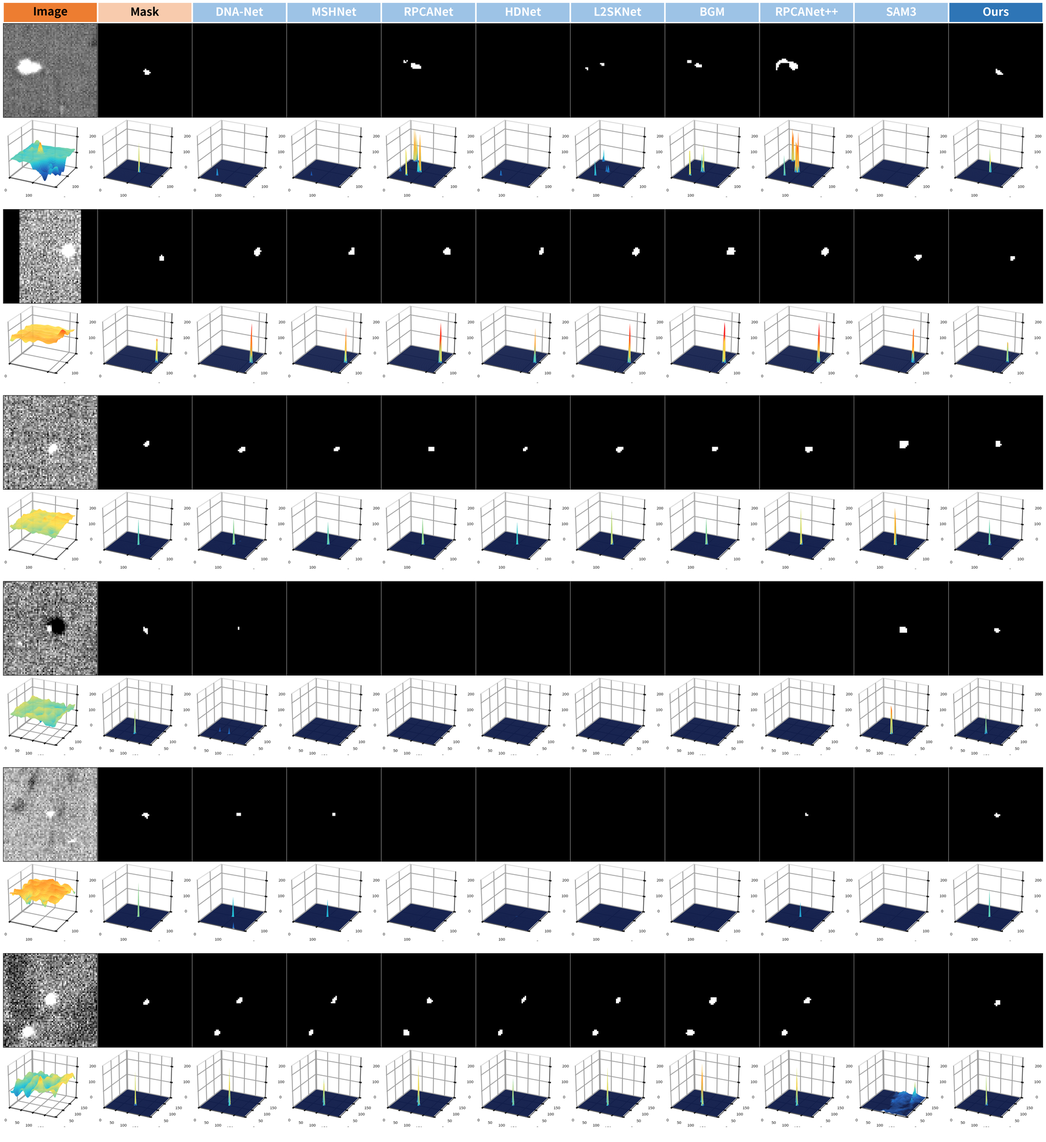
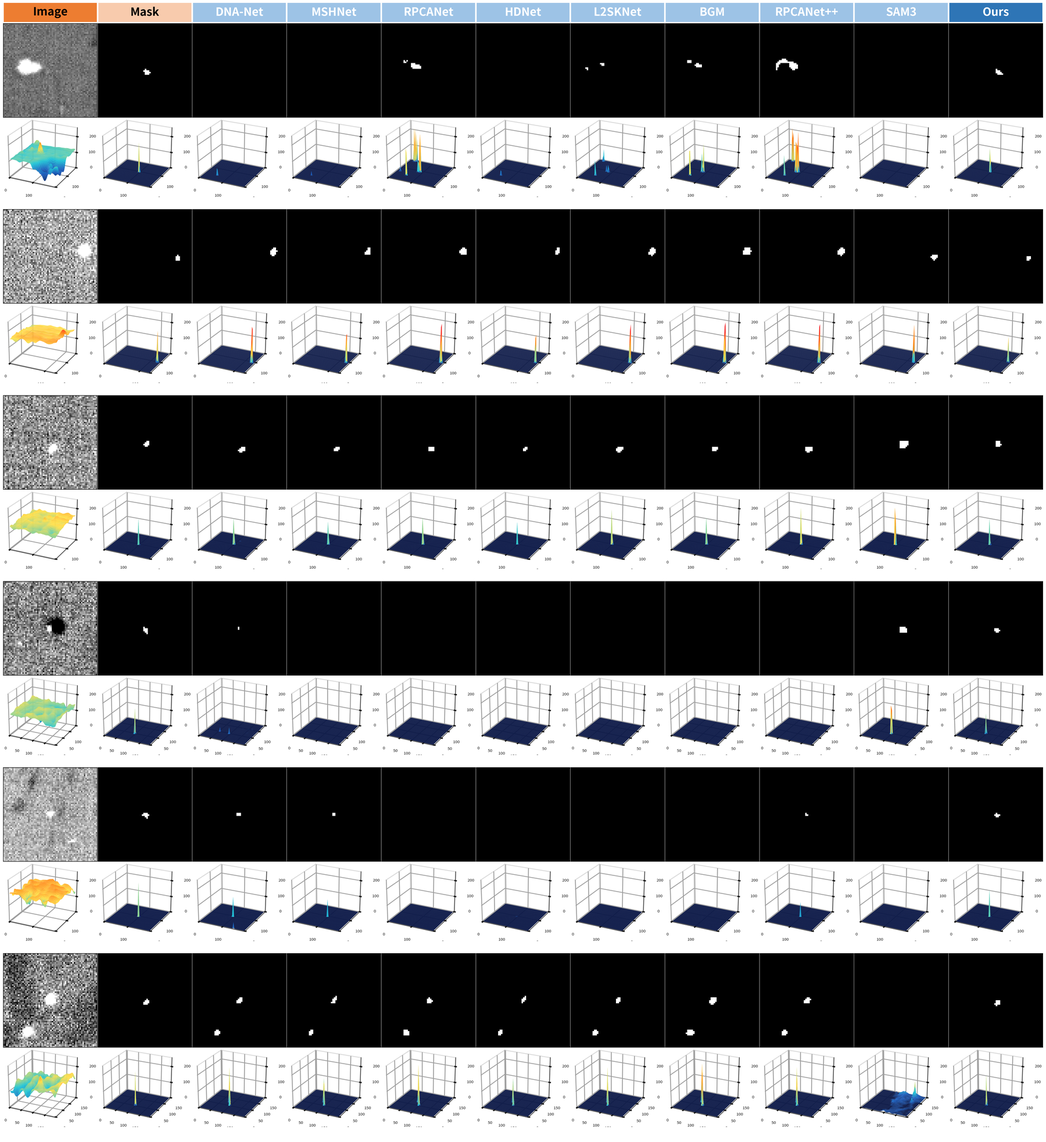
定性图 v9：ROI 改固定边长正方形并整体内移，去掉黑边
问题：原来 ROI = 目标中心 ±32 px 再按图像边界裁，贴边目标（如 2735 的 GT 在 x≈611/宽 622）
裁成 64x43 这种非方形，放大后只能用黑边补成正方形。

- roi_from_gt：side = min(max(min_box, span+2*margin), H, W)，窗口按 clamp 整体内移，
  永远完整落在图像内 -> 所有面板都是完整方形，无补黑
- 贴边目标的 GT 不再居中而靠近对应边框（红框跟 GT 走，位置正确）
- roi_crop_canvas 的补零逻辑保留为兜底

diff --git a/tools/build_paper_qualitative.py b/tools/build_paper_qualitative.py
@@ -99,16 +99,23 @@ def load_map(path):
 
 
 def roi_from_gt(gt, margin=MARGIN, min_box=MIN_BOX):
+    """Square ROI around the GT, always fully inside the image.
+
+    The window is a `side x side` square with side = max(min_box, gt_span + 2*margin);
+    when the target sits near a border the window slides inward instead of being clipped,
+    so every panel is a complete square crop (no black padding bars).
+    """
     ys, xs = np.where(gt > 127)
     h, w = gt.shape
     if len(ys) == 0:
-        return 0, min(h, min_box), 0, min(w, min_box)
+        side = int(min(min_box, h, w))
+        return 0, side, 0, side
     cy, cx = int(ys.mean()), int(xs.mean())
     span = max(int(ys.max() - ys.min()), int(xs.max() - xs.min()))
-    half = max(min_box // 2, span // 2 + margin)
-    y0, y1 = max(0, cy - half), min(h, cy + half)
-    x0, x1 = max(0, cx - half), min(w, cx + half)
-    return y0, y1, x0, x1
+    side = int(min(max(min_box, span + 2 * margin), h, w))
+    y0 = min(max(0, cy - side // 2), h - side)
+    x0 = min(max(0, cx - side // 2), w - side)
+    return y0, y0 + side, x0, x0 + side
 
 
 def compose_panel(sheet, roi, with_box=True, with_inset=True, zoom=ZOOM):

diff --git a/AGENTS.md b/AGENTS.md
@@ -62,7 +62,7 @@
 - DRPCA-Net 的 11.23 FPS 是实现开销而非测量噪声：`torch.profiler` 显示单次前向 CUDA 时间的 81.8 % 花在 `ChannelAttention` 的 `nn.AdaptiveMaxPool2d(1)`（每前向 29 次调用），且延迟对 batch 1/2/4 不敏感（85/56/65 ms）。按官方代码如实记录，不改实现。口径、对照表与差异分析见 [Seal 复杂度指标说明](docs/Seal复杂度指标_说明.md)。
 - 平凡基线（决定读表方式，不新增表行）：全背景预测（1,983 张全零）在同一 test GT 上为 S 0.49990、Fw 0、E 0.25、MAE 0.00020553，IoU/F1/Pd/Fa 均为 0。12 个基线与 Ours 的 S（0.49800–0.49915）全部低于该值，12 个基线的 MAE（0.000229–0.000375）全部高于该值，只有 Ours 的 MAE（0.00015090）低于它。因此 S/MAE 在 Seal 上不区分方法，比较以 Fw/IoU/F1/Pd/Fa 为主，S/MAE 须与平凡基线并列阅读；复算见 [汇总](docs/Seal全监督基线评估汇总.md#平凡基线全背景预测)。
 - 第三批（入表，行 29～32）：L2SKNet（TGRS25）、BGM（TGRS25）、DRPCA-Net（TGRS25）、DURD（TGRS26），均为 2025–2026 年、有官方代码的全监督单帧方法，12 个对比方法到此凑满。目录 `L2SKNet-main/`、`BGM-main/`、`DRPCA-Net-main/`、`DURD-main/`；训练设置：L2SKNet 150/Adam 5e-4、BGM 150/Adam 5e-4（两者模型输出已是概率，用概率空间 dataset 级 IoU）、DRPCA-Net 60/Adam 3e-5/dataset 级 SoftIoU + 0.01 MSE、DURD 100/Adam 1e-4/SoftIoU + 0.1 MSE。各处改动逐条写在对应实验记录与 [汇总](docs/Seal全监督基线评估汇总.md#训练不稳定与失败记录)。
-- 论文版式定性图（对齐 PDDiff Fig. 8/9）：[tools/build_paper_qualitative.py](tools/build_paper_qualitative.py)，每个样例两行（2D 二值面板 + 红框/放大插图；3D 响应面 `elev=26, azim=-64`、按面板 z 上限）。三条硬约束：① 3D 行必须喂**概率图**（`--surf-maps results/<M>/Seal/fullsup_test_maps`），二值图是 0/255 阶跃，画出来只有一根尖刺；② Seal 目标只有 3–5 px，`full` 版式（整幅 + 右下插图）在 0.87 in 列宽下几乎看不见，正式图用 `--roi-panels`（面板 = 6 倍放大 ROI，`--roi-min 64 --roi-margin 24`）；③ 11 列 × 11 样例按 9.6 in 出图，若按 7.2 in 排版表头掉到 5.6 pt，主图应拆成 `seal_pick6_roi` + `seal_pick5_roi` 两张。样例取 [docs/qualitative_rank_top200.json](docs/qualitative_rank_top200.json)（`score = F1(Ours) − mean_k F1(baseline_k)`，可用 [docs/qualitative_review_top200.html](docs/qualitative_review_top200.html) 逐图复核），当前采用排名 1,2,5,6,8,11,13,15,19,21,29 共 11 张，一键重建 [tools/make_paper_qualitative_pick.sh](tools/make_paper_qualitative_pick.sh)。Ours 预测在 `Ours/test_maps`（1,983 张概率图）、SAM3 在 `Ours/SAM3-test_maps`（同阈值 `>=128`）。版式规格、样例清单与读数见 [docs/Seal定性图_论文版式.md](docs/Seal定性图_论文版式.md)，预览 `docs/assets/seal_qualitative_pick6_roi.png`、`docs/assets/seal_qualitative_pick11_full.png`。全分辨率成品（600 dpi PNG + 矢量 PDF + meta，约 110 MB/版）按版本归档：服务器保留全部历史（v1 `Ours/qualitative/v1_20261104_11col/`、v2 `v2_20261105/`、v3 `v3_20261105/`、v4 `v4_20261105/`、v5 `v5_20261105/`、v6 `v6_20261105/`、v7 `v7_20261105/`、v8 `v8_20261105/`），本地只留最新一版在 `Ours/qualitative/v8_20261105/`；**整个 `Ours/qualitative/` 不进 git**（`.gitignore` 整目录排除，只有 `docs/assets/` 里的 1800 px 预览入库）。版式演进：v2 压紧列间距、3D 加网格 + 整数刻度 + 轴名、去掉黑色粗轴线；v3 加单图拆分与 Visio；v4 让 3D 盒子铺满格子（按格子尺寸渲染 PNG → 裁白边 → `aspect='auto'` 贴回）；**v5 解决「3D 白边仍偏大、峰不够高不够显眼」：裁边 26→6 px、平滑 σ 2.0→0.9、`vmax` 取平滑后峰值（峰顶到天花板）、Z 轴统一 0–255 保证跨列可比、盒子 z 比例 0.55→1.00、自定义 `seal3d` 色带（深蓝底→青→黄→亮红）+ `PowerNorm(0.45)`**；并新增 `--diag` 诊断面板（TP 白 / FP 红 / FN 绿 + 红框标 GT），Visio 改用诊断面板；**v6 把诊断面板的红框放大到至少占面板 36%（约 138 px、3 px 线）**；**v8 修正 Image 列**：原来它是整幅 622×417（红框=ROI 窗口），而 Mask/方法列是已经放大 6 倍的 ROI 块（红框=GT 定位框），两者天然不对应——现在 Image 列也取同一块 ROI 的 6 倍放大并套同一个定位框，11 列视野与框位置完全一致——红框是给人定位用的，v5 那版只比 GT 外扩 8 px，印刷尺寸下等于没有。**v7 再优化三点：① 3D 网格线 0.62 灰 / 0.45 pt、刻度数字 2.2 pt 近黑、每轴 3 个好刻度、去掉会撞车的 X/Y/Z 轴名；② Image 列 3D 改彩色（`seal3d` 色带 + 线性映射，与 PDDiff 一致）；③ 诊断面板遇到多目标时每个连通域各画一个红框（单目标 36% 面板、多目标 0.45/n）**。Visio 版由 [tools/make_visio_qualitative.ps1](tools/make_visio_qualitative.ps1) 用 Visio COM 生成（仅 Windows + 已装 Visio）：**第 1 页 `ALL` 把 11 个样例纵向摞成一页**（表头只出现一次，253 个形状，15×31.3 in），之后每样例一页（每页 34 个独立形状：表头矩形 + 22 张图片 + 页脚说明），全部可手动调整格式。
+- 论文版式定性图（对齐 PDDiff Fig. 8/9）：[tools/build_paper_qualitative.py](tools/build_paper_qualitative.py)，每个样例两行（2D 二值面板 + 红框/放大插图；3D 响应面 `elev=26, azim=-64`、按面板 z 上限）。三条硬约束：① 3D 行必须喂**概率图**（`--surf-maps results/<M>/Seal/fullsup_test_maps`），二值图是 0/255 阶跃，画出来只有一根尖刺；② Seal 目标只有 3–5 px，`full` 版式（整幅 + 右下插图）在 0.87 in 列宽下几乎看不见，正式图用 `--roi-panels`（面板 = 6 倍放大 ROI，`--roi-min 64 --roi-margin 24`）；③ 11 列 × 11 样例按 9.6 in 出图，若按 7.2 in 排版表头掉到 5.6 pt，主图应拆成 `seal_pick6_roi` + `seal_pick5_roi` 两张。样例取 [docs/qualitative_rank_top200.json](docs/qualitative_rank_top200.json)（`score = F1(Ours) − mean_k F1(baseline_k)`，可用 [docs/qualitative_review_top200.html](docs/qualitative_review_top200.html) 逐图复核），当前采用排名 1,2,5,6,8,11,13,15,19,21,29 共 11 张，一键重建 [tools/make_paper_qualitative_pick.sh](tools/make_paper_qualitative_pick.sh)。Ours 预测在 `Ours/test_maps`（1,983 张概率图）、SAM3 在 `Ours/SAM3-test_maps`（同阈值 `>=128`）。版式规格、样例清单与读数见 [docs/Seal定性图_论文版式.md](docs/Seal定性图_论文版式.md)，预览 `docs/assets/seal_qualitative_pick6_roi.png`、`docs/assets/seal_qualitative_pick11_full.png`。全分辨率成品（600 dpi PNG + 矢量 PDF + meta，约 110 MB/版）按版本归档：服务器保留全部历史（v1 `Ours/qualitative/v1_20261104_11col/`、v2 `v2_20261105/`、v3 `v3_20261105/`、v4 `v4_20261105/`、v5 `v5_20261105/`、v6 `v6_20261105/`、v7 `v7_20261105/`、v8 `v8_20261105/`、v9 `v9_20261105/`），本地只留最新一版在 `Ours/qualitative/v9_20261105/`；**整个 `Ours/qualitative/` 不进 git**（`.gitignore` 整目录排除，只有 `docs/assets/` 里的 1800 px 预览入库）。版式演进：v2 压紧列间距、3D 加网格 + 整数刻度 + 轴名、去掉黑色粗轴线；v3 加单图拆分与 Visio；v4 让 3D 盒子铺满格子（按格子尺寸渲染 PNG → 裁白边 → `aspect='auto'` 贴回）；**v5 解决「3D 白边仍偏大、峰不够高不够显眼」：裁边 26→6 px、平滑 σ 2.0→0.9、`vmax` 取平滑后峰值（峰顶到天花板）、Z 轴统一 0–255 保证跨列可比、盒子 z 比例 0.55→1.00、自定义 `seal3d` 色带（深蓝底→青→黄→亮红）+ `PowerNorm(0.45)`**；并新增 `--diag` 诊断面板（TP 白 / FP 红 / FN 绿 + 红框标 GT），Visio 改用诊断面板；**v6 把诊断面板的红框放大到至少占面板 36%（约 138 px、3 px 线）**；**v9 去掉黑边**：ROI 从「以目标为中心后按边界裁」改成「固定边长正方形、贴边整体内移」，窗口永远完整落在图像内（此前 2735 这类贴右边界的样例裁成 64×43 后被补黑）；**v8 修正 Image 列**：原来它是整幅 622×417（红框=ROI 窗口），而 Mask/方法列是已经放大 6 倍的 ROI 块（红框=GT 定位框），两者天然不对应——现在 Image 列也取同一块 ROI 的 6 倍放大并套同一个定位框，11 列视野与框位置完全一致——红框是给人定位用的，v5 那版只比 GT 外扩 8 px，印刷尺寸下等于没有。**v7 再优化三点：① 3D 网格线 0.62 灰 / 0.45 pt、刻度数字 2.2 pt 近黑、每轴 3 个好刻度、去掉会撞车的 X/Y/Z 轴名；② Image 列 3D 改彩色（`seal3d` 色带 + 线性映射，与 PDDiff 一致）；③ 诊断面板遇到多目标时每个连通域各画一个红框（单目标 36% 面板、多目标 0.45/n）**。Visio 版由 [tools/make_visio_qualitative.ps1](tools/make_visio_qualitative.ps1) 用 Visio COM 生成（仅 Windows + 已装 Visio）：**第 1 页 `ALL` 把 11 个样例纵向摞成一页**（表头只出现一次，253 个形状，15×31.3 in），之后每样例一页（每页 34 个独立形状：表头矩形 + 22 张图片 + 页脚说明），全部可手动调整格式。
 - 定性图（论文拼图用）：12 个方法与 Ours 的二值预测图在 `results/<Method>/Seal/test_binary/`（1,983 张，`pixel >= 128` → 255），由 [tools/make_binary_maps.py](tools/make_binary_maps.py) 与 [tools/make_qualitative.sh](tools/make_qualitative.sh) 生成；样例拼图在服务器 `qualitative/<stem>/panel.png`（RGB/热红外/GT/预测叠加，13 行），样例清单 `docs/Seal定性对比样例.json`，说明见 [docs/Seal定性对比图.md](docs/Seal定性对比图.md)。
 - ROC / P-R / Pd–Fa 曲线：像素级曲线用 [tools/roc_hist.py](tools/roc_hist.py) 把预测值按 GT 前景（`gt > 127`）/背景分箱成 256 桶直方图（[tools/roc_hist_all.sh](tools/roc_hist_all.sh) → `results/roc_hist/<Method>.json`），目标级曲线用 [tools/target_curves.py](tools/target_curves.py) 在 63 个阈值上做 8 连通 + 质心 <3 px 一对一匹配（[tools/target_curves_all.sh](tools/target_curves_all.sh) 13 进程并行约 1.5 h → `results/target_curves/<Method>.json`）；出图分别是 [tools/plot_roc_pr.py](tools/plot_roc_pr.py) 与 [tools/plot_target_curves.py](tools/plot_target_curves.py)。产物按版本存 `Ours/roc_pr/<version>/`，**当前推荐 `v5_20261105/`**（像素级 ROC：两段直线 + 横轴 8×10⁻⁴ + 图宽 6.8 in，P-R 用 v1 版式）；`v3_20261105/` 为目标级 Pd–Fa（线性 + log），`v4/v2/v1` 留档；每次同时存 PNG（600 dpi）与 PDF + `curves.json` + `summary.md`。**画法（用户明确要求）**：每个方法一条折线且只有两段直线——`(0,0) → 拐点 → (右边框, 平台)`；平台取右边框处的值（像素级 = TPR@FPR=窗口右端，目标级 = max Pd），拐点 = 沿横轴升序第一个 ≥0.98×平台 的点（`--two-segment`、`--knee-frac`）。横轴要够长（`--xmax 8e-4 --fig-width 6.8`），否则平台贴右边框、看起来"戛然而止"；P-R 保留 (0,1) 起点与 recall→1 的尾巴（`--pr-style v1`，用户选定的版式）。**一致性**：像素级 `t=128` 的 precision/recall 可复原表中 F1/IoU（Ours 0.61905/0.44831 vs 0.61912/0.44835）；目标级 `t=128` 的 Pd/Fa 与表中 13 行全部逐位吻合（Ours 0.82731 / 2.100e-06）。**读图**：① 面积指标报 **pAUC@5×10⁻⁴**（12 个基线操作点 Fa@t=128 ≤ 2.4×10⁻⁴，Ours 0.64391 第一）；v5 画到 8×10⁻⁴ 后按窗口积的 `pAUC@8×10⁻⁴` 会被 SCTransNet/ILNet/UIU-Net 反超（它们弥散输出，5→8×10⁻⁴ 的 TPR 从 0.80 爬到 0.88），summary 两个窗口都列，论文别报后者；② 全范围 AUC 不能用来排名（几乎不预测前景的方法 0.977–0.981），与 S/MAE 被背景主导同类；③ 目标级图 Ours 平台 Pd 0.834 最高、拐点 Fa 1.2×10⁻⁶ 比次优 HDNet 低 40 倍，但 Fa 跨 70 倍，**目标级主推 log 轴**；④ 像素级 `Pd@t=128`（0.594）是前景像素召回率，与表中目标级 Pd（0.827）不同口径不能互引。曲线成品按同样目录结构同步到服务器 `Ours/roc_pr/`（当前 39 个文件 / 约 7.6 MB，含 v1–v5 全部 PNG+PDF+json+md，`sha256sum` 与本地一致）；重画用的 `tools/roc_hist.py`、`tools/roc_hist_all.sh`、`tools/target_curves.py`、`tools/target_curves_all.sh`、`tools/plot_roc_pr.py`、`tools/plot_target_curves.py` 也在服务器 `tools/` 下保持同步。口径、版本对照与复现命令见 [docs/Seal_ROC_PR曲线.md](docs/Seal_ROC_PR曲线.md)，预览 `docs/assets/seal_roc_pr_v5.png`、`docs/assets/seal_pd_fa_v3.png`。
 - IoU 的边界敏感性：Seal 目标平均 14.3 像素，把 GT 膨胀/腐蚀 1 像素当预测只能得到 IoU 0.3910 / 0.0826；表中 IoU 0.19–0.31 对应约 1–2 像素边界误差，不能读作分割质量百分比，须与 Fw/F1/Pd/Fa 合看，详见 [定义对照](docs/小目标评价指标_定义与代码对照.md#iou-的边界敏感性seal-gt-实测)。

diff --git a/README.md b/README.md
@@ -65,7 +65,7 @@
 - DRPCA-Net 的 11.23 FPS 是实现开销而非测量噪声：`torch.profiler` 显示单次前向 CUDA 时间的 81.8 % 花在 `ChannelAttention` 的 `nn.AdaptiveMaxPool2d(1)`（每前向 29 次调用），且延迟对 batch 1/2/4 不敏感（85/56/65 ms）。按官方代码如实记录，不改实现。口径、对照表与差异分析见 [Seal 复杂度指标说明](docs/Seal复杂度指标_说明.md)。
 - 平凡基线（决定读表方式，不新增表行）：全背景预测（1,983 张全零）在同一 test GT 上为 S 0.49990、Fw 0、E 0.25、MAE 0.00020553，IoU/F1/Pd/Fa 均为 0。12 个基线与 Ours 的 S（0.49800–0.49915）全部低于该值，12 个基线的 MAE（0.000229–0.000375）全部高于该值，只有 Ours 的 MAE（0.00015090）低于它。因此 S/MAE 在 Seal 上不区分方法，比较以 Fw/IoU/F1/Pd/Fa 为主，S/MAE 须与平凡基线并列阅读；复算见 [汇总](docs/Seal全监督基线评估汇总.md#平凡基线全背景预测)。
 - 第三批（入表，行 29～32）：L2SKNet（TGRS25）、BGM（TGRS25）、DRPCA-Net（TGRS25）、DURD（TGRS26），均为 2025–2026 年、有官方代码的全监督单帧方法，12 个对比方法到此凑满。目录 `L2SKNet-main/`、`BGM-main/`、`DRPCA-Net-main/`、`DURD-main/`；训练设置：L2SKNet 150/Adam 5e-4、BGM 150/Adam 5e-4（两者模型输出已是概率，用概率空间 dataset 级 IoU）、DRPCA-Net 60/Adam 3e-5/dataset 级 SoftIoU + 0.01 MSE、DURD 100/Adam 1e-4/SoftIoU + 0.1 MSE。各处改动逐条写在对应实验记录与 [汇总](docs/Seal全监督基线评估汇总.md#训练不稳定与失败记录)。
-- 论文版式定性图（对齐 PDDiff Fig. 8/9）：[tools/build_paper_qualitative.py](tools/build_paper_qualitative.py)，每个样例两行（2D 二值面板 + 红框/放大插图；3D 响应面 `elev=26, azim=-64`、按面板 z 上限）。三条硬约束：① 3D 行必须喂**概率图**（`--surf-maps results/<M>/Seal/fullsup_test_maps`），二值图是 0/255 阶跃，画出来只有一根尖刺；② Seal 目标只有 3–5 px，`full` 版式（整幅 + 右下插图）在 0.87 in 列宽下几乎看不见，正式图用 `--roi-panels`（面板 = 6 倍放大 ROI，`--roi-min 64 --roi-margin 24`）；③ 11 列 × 11 样例按 9.6 in 出图，若按 7.2 in 排版表头掉到 5.6 pt，主图应拆成 `seal_pick6_roi` + `seal_pick5_roi` 两张。样例取 [docs/qualitative_rank_top200.json](docs/qualitative_rank_top200.json)（`score = F1(Ours) − mean_k F1(baseline_k)`，可用 [docs/qualitative_review_top200.html](docs/qualitative_review_top200.html) 逐图复核），当前采用排名 1,2,5,6,8,11,13,15,19,21,29 共 11 张，一键重建 [tools/make_paper_qualitative_pick.sh](tools/make_paper_qualitative_pick.sh)。Ours 预测在 `Ours/test_maps`（1,983 张概率图）、SAM3 在 `Ours/SAM3-test_maps`（同阈值 `>=128`）。版式规格、样例清单与读数见 [docs/Seal定性图_论文版式.md](docs/Seal定性图_论文版式.md)，预览 `docs/assets/seal_qualitative_pick6_roi.png`、`docs/assets/seal_qualitative_pick11_full.png`。全分辨率成品（600 dpi PNG + 矢量 PDF + meta，约 110 MB/版）按版本归档：服务器保留全部历史（v1 `Ours/qualitative/v1_20261104_11col/`、v2 `v2_20261105/`、v3 `v3_20261105/`、v4 `v4_20261105/`、v5 `v5_20261105/`、v6 `v6_20261105/`、v7 `v7_20261105/`、v8 `v8_20261105/`），本地只留最新一版在 `Ours/qualitative/v8_20261105/`；**整个 `Ours/qualitative/` 不进 git**（`.gitignore` 整目录排除，只有 `docs/assets/` 里的 1800 px 预览入库）。版式演进：v2 压紧列间距、3D 加网格 + 整数刻度 + 轴名、去掉黑色粗轴线；v3 加单图拆分与 Visio；v4 让 3D 盒子铺满格子（按格子尺寸渲染 PNG → 裁白边 → `aspect='auto'` 贴回）；**v5 解决「3D 白边仍偏大、峰不够高不够显眼」：裁边 26→6 px、平滑 σ 2.0→0.9、`vmax` 取平滑后峰值（峰顶到天花板）、Z 轴统一 0–255 保证跨列可比、盒子 z 比例 0.55→1.00、自定义 `seal3d` 色带（深蓝底→青→黄→亮红）+ `PowerNorm(0.45)`**；并新增 `--diag` 诊断面板（TP 白 / FP 红 / FN 绿 + 红框标 GT），Visio 改用诊断面板；**v6 把诊断面板的红框放大到至少占面板 36%（约 138 px、3 px 线）**；**v8 修正 Image 列**：原来它是整幅 622×417（红框=ROI 窗口），而 Mask/方法列是已经放大 6 倍的 ROI 块（红框=GT 定位框），两者天然不对应——现在 Image 列也取同一块 ROI 的 6 倍放大并套同一个定位框，11 列视野与框位置完全一致——红框是给人定位用的，v5 那版只比 GT 外扩 8 px，印刷尺寸下等于没有。**v7 再优化三点：① 3D 网格线 0.62 灰 / 0.45 pt、刻度数字 2.2 pt 近黑、每轴 3 个好刻度、去掉会撞车的 X/Y/Z 轴名；② Image 列 3D 改彩色（`seal3d` 色带 + 线性映射，与 PDDiff 一致）；③ 诊断面板遇到多目标时每个连通域各画一个红框（单目标 36% 面板、多目标 0.45/n）**。Visio 版由 [tools/make_visio_qualitative.ps1](tools/make_visio_qualitative.ps1) 用 Visio COM 生成（仅 Windows + 已装 Visio）：**第 1 页 `ALL` 把 11 个样例纵向摞成一页**（表头只出现一次，253 个形状，15×31.3 in），之后每样例一页（每页 34 个独立形状：表头矩形 + 22 张图片 + 页脚说明），全部可手动调整格式。
+- 论文版式定性图（对齐 PDDiff Fig. 8/9）：[tools/build_paper_qualitative.py](tools/build_paper_qualitative.py)，每个样例两行（2D 二值面板 + 红框/放大插图；3D 响应面 `elev=26, azim=-64`、按面板 z 上限）。三条硬约束：① 3D 行必须喂**概率图**（`--surf-maps results/<M>/Seal/fullsup_test_maps`），二值图是 0/255 阶跃，画出来只有一根尖刺；② Seal 目标只有 3–5 px，`full` 版式（整幅 + 右下插图）在 0.87 in 列宽下几乎看不见，正式图用 `--roi-panels`（面板 = 6 倍放大 ROI，`--roi-min 64 --roi-margin 24`）；③ 11 列 × 11 样例按 9.6 in 出图，若按 7.2 in 排版表头掉到 5.6 pt，主图应拆成 `seal_pick6_roi` + `seal_pick5_roi` 两张。样例取 [docs/qualitative_rank_top200.json](docs/qualitative_rank_top200.json)（`score = F1(Ours) − mean_k F1(baseline_k)`，可用 [docs/qualitative_review_top200.html](docs/qualitative_review_top200.html) 逐图复核），当前采用排名 1,2,5,6,8,11,13,15,19,21,29 共 11 张，一键重建 [tools/make_paper_qualitative_pick.sh](tools/make_paper_qualitative_pick.sh)。Ours 预测在 `Ours/test_maps`（1,983 张概率图）、SAM3 在 `Ours/SAM3-test_maps`（同阈值 `>=128`）。版式规格、样例清单与读数见 [docs/Seal定性图_论文版式.md](docs/Seal定性图_论文版式.md)，预览 `docs/assets/seal_qualitative_pick6_roi.png`、`docs/assets/seal_qualitative_pick11_full.png`。全分辨率成品（600 dpi PNG + 矢量 PDF + meta，约 110 MB/版）按版本归档：服务器保留全部历史（v1 `Ours/qualitative/v1_20261104_11col/`、v2 `v2_20261105/`、v3 `v3_20261105/`、v4 `v4_20261105/`、v5 `v5_20261105/`、v6 `v6_20261105/`、v7 `v7_20261105/`、v8 `v8_20261105/`、v9 `v9_20261105/`），本地只留最新一版在 `Ours/qualitative/v9_20261105/`；**整个 `Ours/qualitative/` 不进 git**（`.gitignore` 整目录排除，只有 `docs/assets/` 里的 1800 px 预览入库）。版式演进：v2 压紧列间距、3D 加网格 + 整数刻度 + 轴名、去掉黑色粗轴线；v3 加单图拆分与 Visio；v4 让 3D 盒子铺满格子（按格子尺寸渲染 PNG → 裁白边 → `aspect='auto'` 贴回）；**v5 解决「3D 白边仍偏大、峰不够高不够显眼」：裁边 26→6 px、平滑 σ 2.0→0.9、`vmax` 取平滑后峰值（峰顶到天花板）、Z 轴统一 0–255 保证跨列可比、盒子 z 比例 0.55→1.00、自定义 `seal3d` 色带（深蓝底→青→黄→亮红）+ `PowerNorm(0.45)`**；并新增 `--diag` 诊断面板（TP 白 / FP 红 / FN 绿 + 红框标 GT），Visio 改用诊断面板；**v6 把诊断面板的红框放大到至少占面板 36%（约 138 px、3 px 线）**；**v9 去掉黑边**：ROI 从「以目标为中心后按边界裁」改成「固定边长正方形、贴边整体内移」，窗口永远完整落在图像内（此前 2735 这类贴右边界的样例裁成 64×43 后被补黑）；**v8 修正 Image 列**：原来它是整幅 622×417（红框=ROI 窗口），而 Mask/方法列是已经放大 6 倍的 ROI 块（红框=GT 定位框），两者天然不对应——现在 Image 列也取同一块 ROI 的 6 倍放大并套同一个定位框，11 列视野与框位置完全一致——红框是给人定位用的，v5 那版只比 GT 外扩 8 px，印刷尺寸下等于没有。**v7 再优化三点：① 3D 网格线 0.62 灰 / 0.45 pt、刻度数字 2.2 pt 近黑、每轴 3 个好刻度、去掉会撞车的 X/Y/Z 轴名；② Image 列 3D 改彩色（`seal3d` 色带 + 线性映射，与 PDDiff 一致）；③ 诊断面板遇到多目标时每个连通域各画一个红框（单目标 36% 面板、多目标 0.45/n）**。Visio 版由 [tools/make_visio_qualitative.ps1](tools/make_visio_qualitative.ps1) 用 Visio COM 生成（仅 Windows + 已装 Visio）：**第 1 页 `ALL` 把 11 个样例纵向摞成一页**（表头只出现一次，253 个形状，15×31.3 in），之后每样例一页（每页 34 个独立形状：表头矩形 + 22 张图片 + 页脚说明），全部可手动调整格式。
 - 定性图（论文拼图用）：12 个方法与 Ours 的二值预测图在 `results/<Method>/Seal/test_binary/`（1,983 张，`pixel >= 128` → 255），由 [tools/make_binary_maps.py](tools/make_binary_maps.py) 与 [tools/make_qualitative.sh](tools/make_qualitative.sh) 生成；样例拼图在服务器 `qualitative/<stem>/panel.png`（RGB/热红外/GT/预测叠加，13 行），样例清单 `docs/Seal定性对比样例.json`，说明见 [docs/Seal定性对比图.md](docs/Seal定性对比图.md)。
 - ROC / P-R / Pd–Fa 曲线：像素级曲线用 [tools/roc_hist.py](tools/roc_hist.py) 把预测值按 GT 前景（`gt > 127`）/背景分箱成 256 桶直方图（[tools/roc_hist_all.sh](tools/roc_hist_all.sh) → `results/roc_hist/<Method>.json`），目标级曲线用 [tools/target_curves.py](tools/target_curves.py) 在 63 个阈值上做 8 连通 + 质心 <3 px 一对一匹配（[tools/target_curves_all.sh](tools/target_curves_all.sh) 13 进程并行约 1.5 h → `results/target_curves/<Method>.json`）；出图分别是 [tools/plot_roc_pr.py](tools/plot_roc_pr.py) 与 [tools/plot_target_curves.py](tools/plot_target_curves.py)。产物按版本存 `Ours/roc_pr/<version>/`，**当前推荐 `v5_20261105/`**（像素级 ROC：两段直线 + 横轴 8×10⁻⁴ + 图宽 6.8 in，P-R 用 v1 版式）；`v3_20261105/` 为目标级 Pd–Fa（线性 + log），`v4/v2/v1` 留档；每次同时存 PNG（600 dpi）与 PDF + `curves.json` + `summary.md`。**画法（用户明确要求）**：每个方法一条折线且只有两段直线——`(0,0) → 拐点 → (右边框, 平台)`；平台取右边框处的值（像素级 = TPR@FPR=窗口右端，目标级 = max Pd），拐点 = 沿横轴升序第一个 ≥0.98×平台 的点（`--two-segment`、`--knee-frac`）。横轴要够长（`--xmax 8e-4 --fig-width 6.8`），否则平台贴右边框、看起来"戛然而止"；P-R 保留 (0,1) 起点与 recall→1 的尾巴（`--pr-style v1`，用户选定的版式）。**一致性**：像素级 `t=128` 的 precision/recall 可复原表中 F1/IoU（Ours 0.61905/0.44831 vs 0.61912/0.44835）；目标级 `t=128` 的 Pd/Fa 与表中 13 行全部逐位吻合（Ours 0.82731 / 2.100e-06）。**读图**：① 面积指标报 **pAUC@5×10⁻⁴**（12 个基线操作点 Fa@t=128 ≤ 2.4×10⁻⁴，Ours 0.64391 第一）；v5 画到 8×10⁻⁴ 后按窗口积的 `pAUC@8×10⁻⁴` 会被 SCTransNet/ILNet/UIU-Net 反超（它们弥散输出，5→8×10⁻⁴ 的 TPR 从 0.80 爬到 0.88），summary 两个窗口都列，论文别报后者；② 全范围 AUC 不能用来排名（几乎不预测前景的方法 0.977–0.981），与 S/MAE 被背景主导同类；③ 目标级图 Ours 平台 Pd 0.834 最高、拐点 Fa 1.2×10⁻⁶ 比次优 HDNet 低 40 倍，但 Fa 跨 70 倍，**目标级主推 log 轴**；④ 像素级 `Pd@t=128`（0.594）是前景像素召回率，与表中目标级 Pd（0.827）不同口径不能互引。曲线成品按同样目录结构同步到服务器 `Ours/roc_pr/`（当前 39 个文件 / 约 7.6 MB，含 v1–v5 全部 PNG+PDF+json+md，`sha256sum` 与本地一致）；重画用的 `tools/roc_hist.py`、`tools/roc_hist_all.sh`、`tools/target_curves.py`、`tools/target_curves_all.sh`、`tools/plot_roc_pr.py`、`tools/plot_target_curves.py` 也在服务器 `tools/` 下保持同步。口径、版本对照与复现命令见 [docs/Seal_ROC_PR曲线.md](docs/Seal_ROC_PR曲线.md)，预览 `docs/assets/seal_roc_pr_v5.png`、`docs/assets/seal_pd_fa_v3.png`。
 - IoU 的边界敏感性：Seal 目标平均 14.3 像素，把 GT 膨胀/腐蚀 1 像素当预测只能得到 IoU 0.3910 / 0.0826；表中 IoU 0.19–0.31 对应约 1–2 像素边界误差，不能读作分割质量百分比，须与 Fw/F1/Pd/Fa 合看，详见 [定义对照](docs/小目标评价指标_定义与代码对照.md#iou-的边界敏感性seal-gt-实测)。

diff --git a/docs/Seal定性图_论文版式.md b/docs/Seal定性图_论文版式.md
@@ -112,7 +112,7 @@ python tools/build_paper_qualitative.py \
 
 （`2688/2120/2894` 是多目标或细长目标，视野被 `--roi-min 64` 自动放大到 98–138 px。）
 
-构建：`bash tools/make_paper_qualitative_pick.sh all Ours/qualitative/v8_20261105`（第二个参数是输出目录，默认 `Ours/qualitative/latest`；**每次改版都给新目录**，别覆盖旧版）。`full`/`roi` 二选一也行。
+构建：`bash tools/make_paper_qualitative_pick.sh all Ours/qualitative/v9_20261105`（第二个参数是输出目录，默认 `Ours/qualitative/latest`；**每次改版都给新目录**，别覆盖旧版）。`full`/`roi` 二选一也行。
 
 ### 版本
 
@@ -125,11 +125,12 @@ python tools/build_paper_qualitative.py \
 | v5 | `Ours/qualitative/v5_20261105/` | 已删除 | 3D 更满（裁边 26→6 px）+ 峰更高更亮：平滑 σ 2.0→0.9、`vmax`=平滑后峰值、Z 轴统一 0–255、盒子 z 比例 0.55→1.00、自定义 `seal3d` 色带（深蓝底→青→黄→亮红）+ `PowerNorm(0.45)`；新增 `--diag` 诊断面板（TP 白 / FP 红 / FN 绿 + 红框），Visio 改用诊断面板 |/n| v6（当前） | `Ours/qualitative/v6_20261105/` | `Ours/qualitative/v6_20261105/` | 诊断面板的红框放大：从「GT 外扩 8 px」（384 面板里约 40 px）改成**至少占面板 36%（约 138 px）、3 px 线**，居中套在 GT 上；其余与 v5 相同 |
 | v6 | 已删除 | 已删除 | 诊断面板的红框放大：从「GT 外扩 8 px」（384 面板里约 40 px、2 px 线）改成**至少占面板 36%（约 138 px）、3 px 线**，居中套在 GT 上；其余与 v5 相同 |
 | v7 | 已删除 | 已删除 | 3D 网格/刻度清晰化（网格 0.62 灰 0.45 pt、刻度 2.2 pt 近黑、每轴 3 个刻度、去掉 X/Y/Z 轴名避免与数字相撞）；Image 列 3D 改彩色（与 PDDiff 一致，线性映射）；诊断面板多目标时**每个连通域一个红框**（单目标 36%、多目标 0.45/n）；裁边 6→14 px |
-| v8（当前） | `Ours/qualitative/v8_20261105/` | `Ours/qualitative/v8_20261105/` | **Image 列改成同一块 ROI 的 6 倍放大**（原来整幅 622×417），诊断模式下套与其它列完全相同的 GT 定位框——之前 Image 的红框是「ROI 窗口」、其它列是「GT 定位框」，两者不对应；顺带 Image 列从 0.85×0.57 in 的小图变成与其它列同尺寸 |
+| v8 | 已删除 | 已删除 | **Image 列改成同一块 ROI 的 6 倍放大**（原来整幅 622×417），诊断模式下套与其它列完全相同的 GT 定位框——之前 Image 的红框是「ROI 窗口」、其它列是「GT 定位框」，两者不对应；顺带 Image 列从 0.85×0.57 in 的小图变成与其它列同尺寸 |
+| v9（当前） | `Ours/qualitative/v9_20261105/` | `Ours/qualitative/v9_20261105/` | **去掉黑边**：ROI 改成「固定边长正方形、贴边整体内移」，`side = min(max(min_box, span+2·margin), H, W)`，窗口永远完整落在图像内，不再出现 64×43 这种被裁后补黑的非方形；贴边目标的 GT 因此不在正中心而靠近对应边框（红框跟 GT 走，位置仍正确） |
 
 服务器保留全部历史版本；本地只留最新一版，**整个 `Ours/qualitative/` 不进 git**（单版 100 MB 量级，`.gitignore` 已整目录排除）。
 
-v8 产物（600 dpi PNG + 矢量 PDF + meta）：
+v9 产物（600 dpi PNG + 矢量 PDF + meta）：
 
 | 文件 | 内容 | 尺寸 |
 |---|---|---|
@@ -147,7 +148,7 @@ v8 产物（600 dpi PNG + 矢量 PDF + meta）：
 
 Visio 版由 [tools/make_visio_qualitative.ps1](tools/make_visio_qualitative.ps1) 用 Visio COM 生成（仅 Windows + 已装 Visio 可用）：表头是带填充/文字/雅黑的矩形，图片是嵌入的图片形状，页脚一行说明——都能单独选中改格式。
 
-仓库内预览（1800 px 宽，仅用于查看版式，已同步为 v8）：[`seal_qualitative_pick6_roi.png`](assets/seal_qualitative_pick6_roi.png)、[`seal_qualitative_pick5_roi.png`](assets/seal_qualitative_pick5_roi.png)、[`seal_qualitative_pick11_full.png`](assets/seal_qualitative_pick11_full.png)。
+仓库内预览（1800 px 宽，仅用于查看版式，已同步为 v9）：[`seal_qualitative_pick6_roi.png`](assets/seal_qualitative_pick6_roi.png)、[`seal_qualitative_pick5_roi.png`](assets/seal_qualitative_pick5_roi.png)、[`seal_qualitative_pick11_full.png`](assets/seal_qualitative_pick11_full.png)。
 
 从图上直接能读到的事实（对照表 21～32 行）：
 
